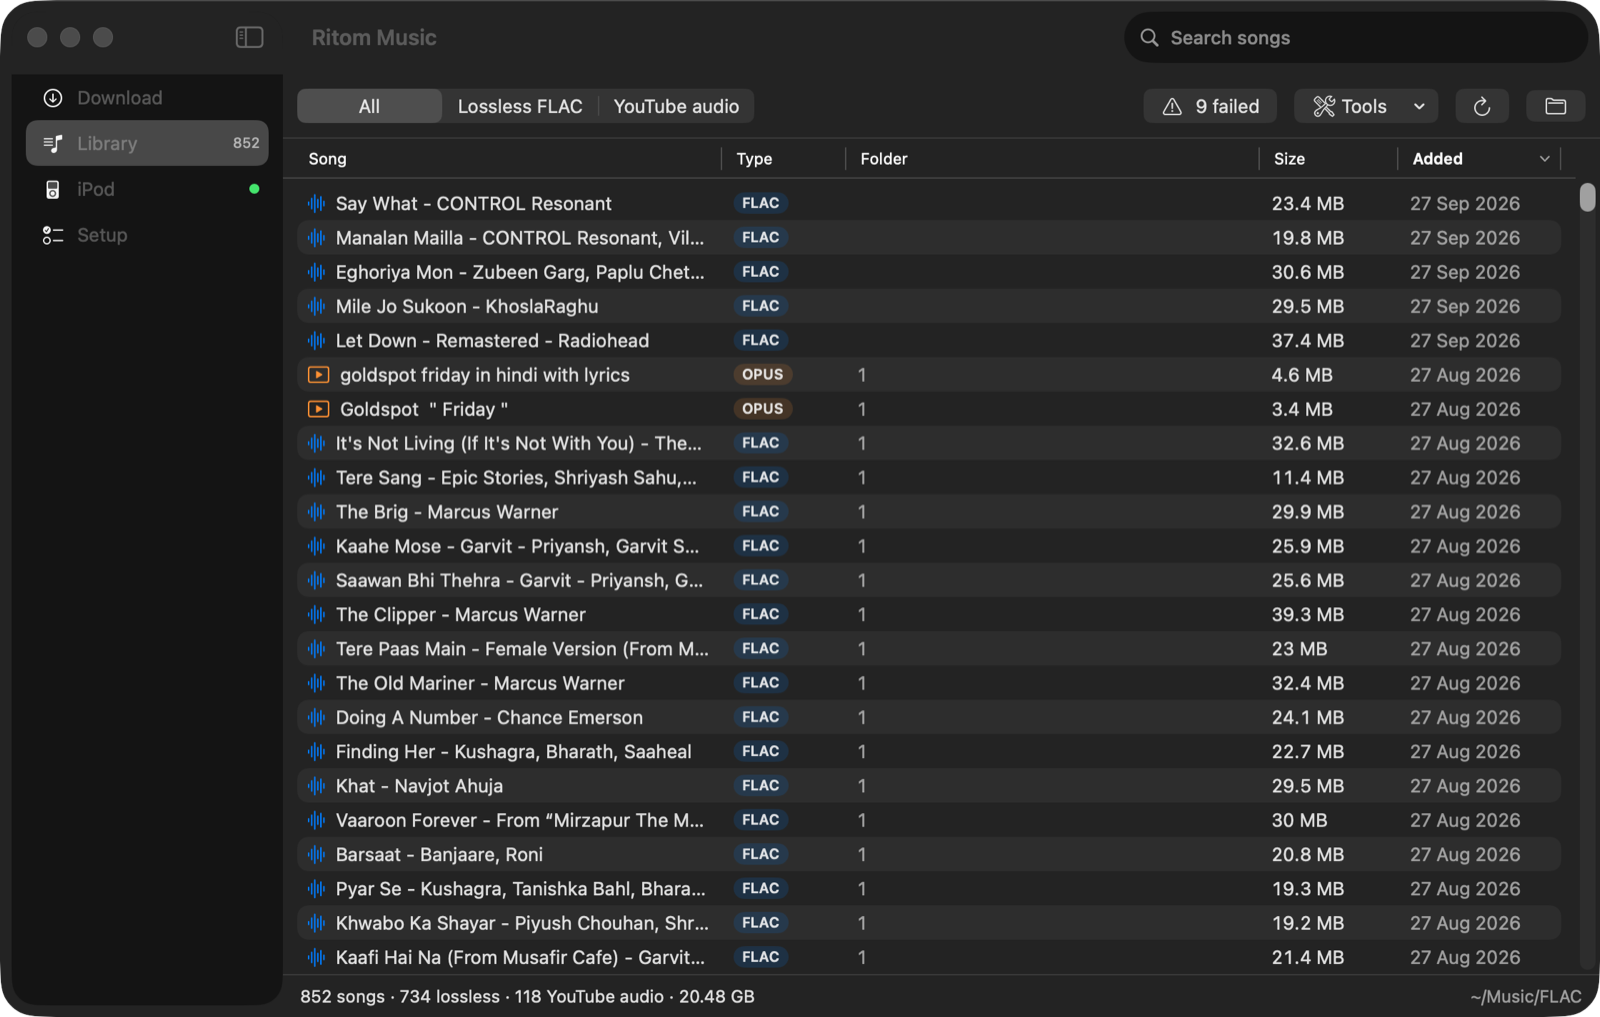
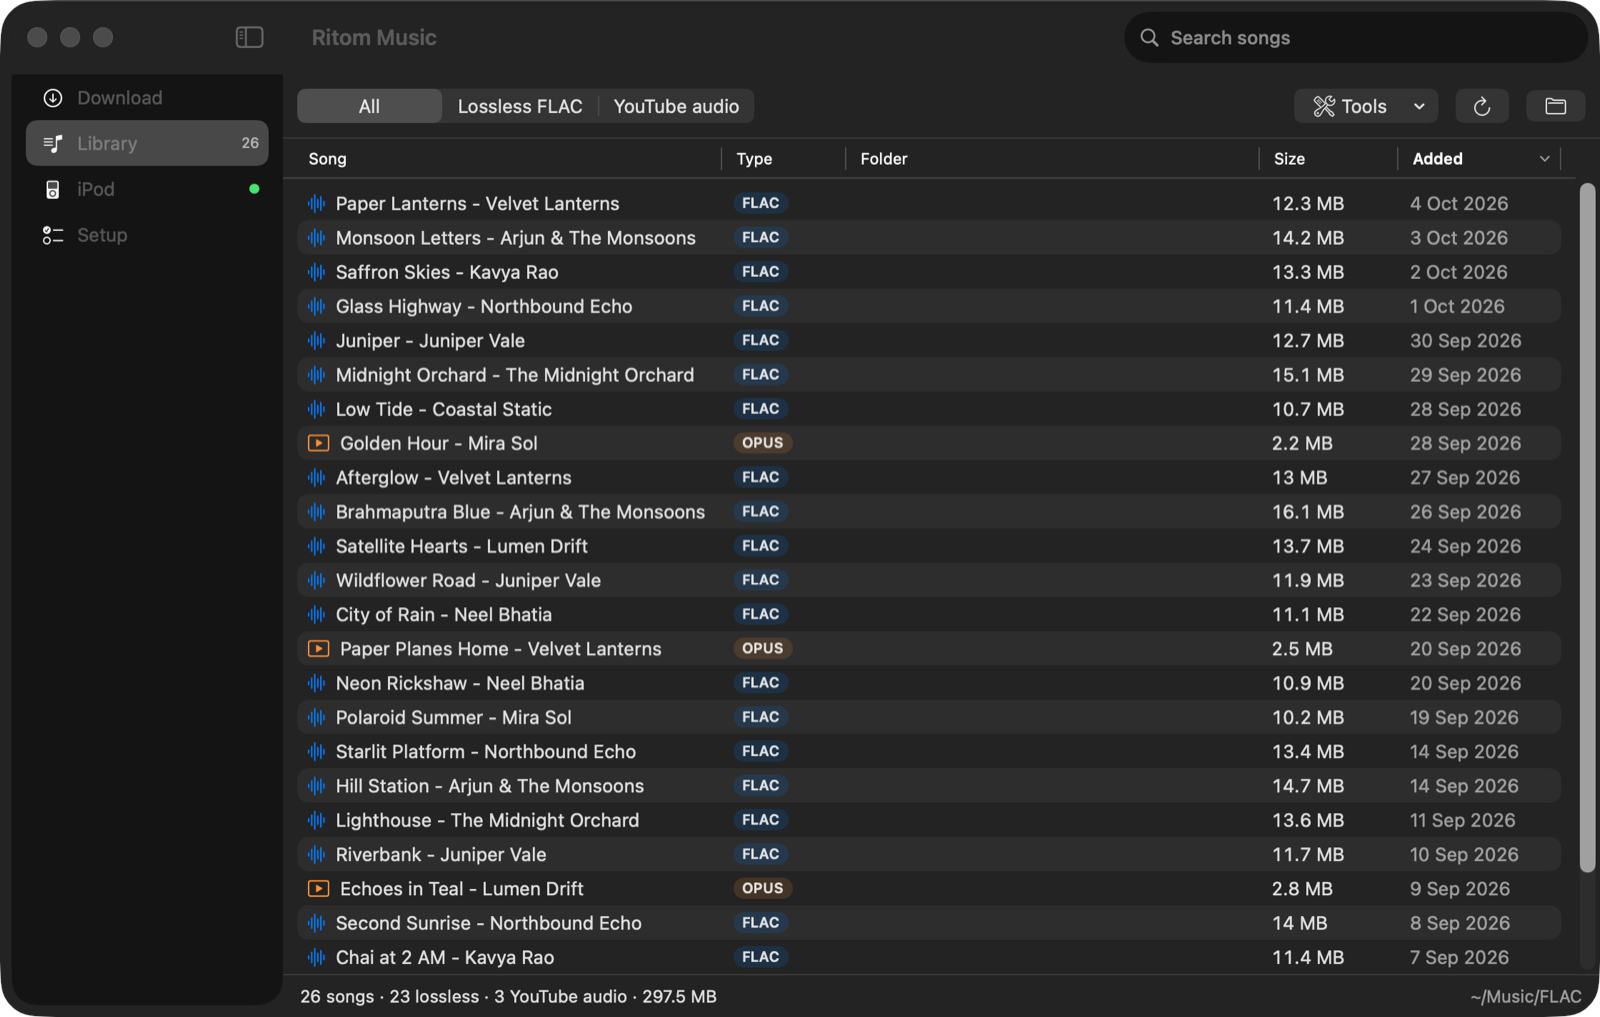
Add Ritom Music symbol and demo screenshots
- docs/brand: original click-wheel + sound wave symbol (colour, black, white;
  SVG and PNG) and a 1280x640 social preview image
- README header uses the symbol (the old icon was drawn from an SF Symbol)
- Screenshots retaken with a made-up demo library and iPod
- Setup shows the music folder as ~/... instead of the full home path

diff --git a/app/Sources/Views.swift b/app/Sources/Views.swift
@@ -391,7 +391,8 @@ final class SetupModel: ObservableObject {
                               fix: hasMut ? nil : "Install", fixArgs: hasMut ? nil : pip + ["mutagen"]))
             let out = await MainActor.run { Pref.out }
             let exists = FileManager.default.fileExists(atPath: out)
-            list.append(Check(id: "out", name: "Music folder", ok: exists, detail: out, fix: nil, fixArgs: nil))
+            list.append(Check(id: "out", name: "Music folder", ok: exists,
+                              detail: (out as NSString).abbreviatingWithTildeInPath, fix: nil, fixArgs: nil))
             let final = list
             await MainActor.run { self.checks = final; self.checking = false }
         }

diff --git a/docs/brand/README.md b/docs/brand/README.md
@@ -1,0 +1,14 @@
+# Ritom Music brand assets
+
+The symbol is an iPod click wheel (menu, previous, next, play/pause) whose centre button holds a sound wave.
+
+| File | Use |
+|---|---|
+| `symbol.svg` / `symbol-512.png` | full-colour symbol on its gradient tile (app, avatars, README) |
+| `symbol-black.svg` / `symbol-black-512.png` | single colour, for light backgrounds |
+| `symbol-white.svg` / `symbol-white-512.png` | single colour, for dark backgrounds |
+| `social-preview.png` | 1280×640 GitHub social preview (Settings → General → Social preview) |
+
+Colours: gradient `#FA5C6B` → `#8C2ECC`, white `#FFFFFF`, ink `#111111`.
+
+Released under the repository's [MIT license](../../LICENSE).

diff --git a/README.md b/README.md
@@ -1,5 +1,5 @@
 <p align="center">
-  <img src="docs/images/icon.png" width="128" alt="Ritom Music icon">
+  <img src="docs/brand/symbol.svg" width="128" alt="Ritom Music symbol: an iPod click wheel with a sound wave in the centre button">
 </p>
 
 <h1 align="center">Ritom Music</h1>
@@ -149,6 +149,10 @@ tools/
   ipod_reencode_320.py  one-off: re-encode every song already on the iPod to 320 kbps AAC in place
                         (keeps playlists, play counts and track order; see the docstring)
 ```
+
+### Brand
+
+The symbol, single-colour versions and the social preview image are in [`docs/brand`](docs/brand).
 
 ### Testing without an iPod
 
